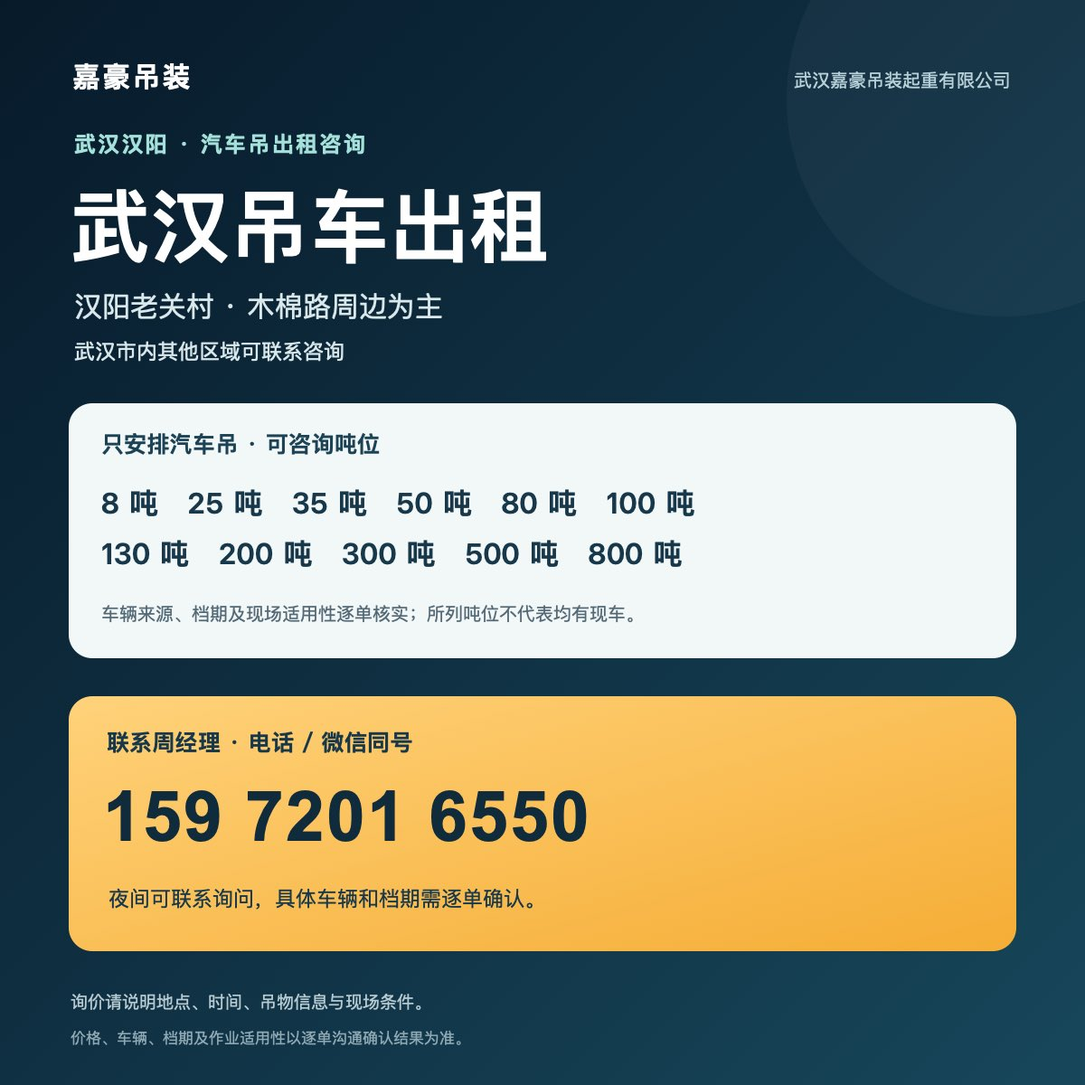
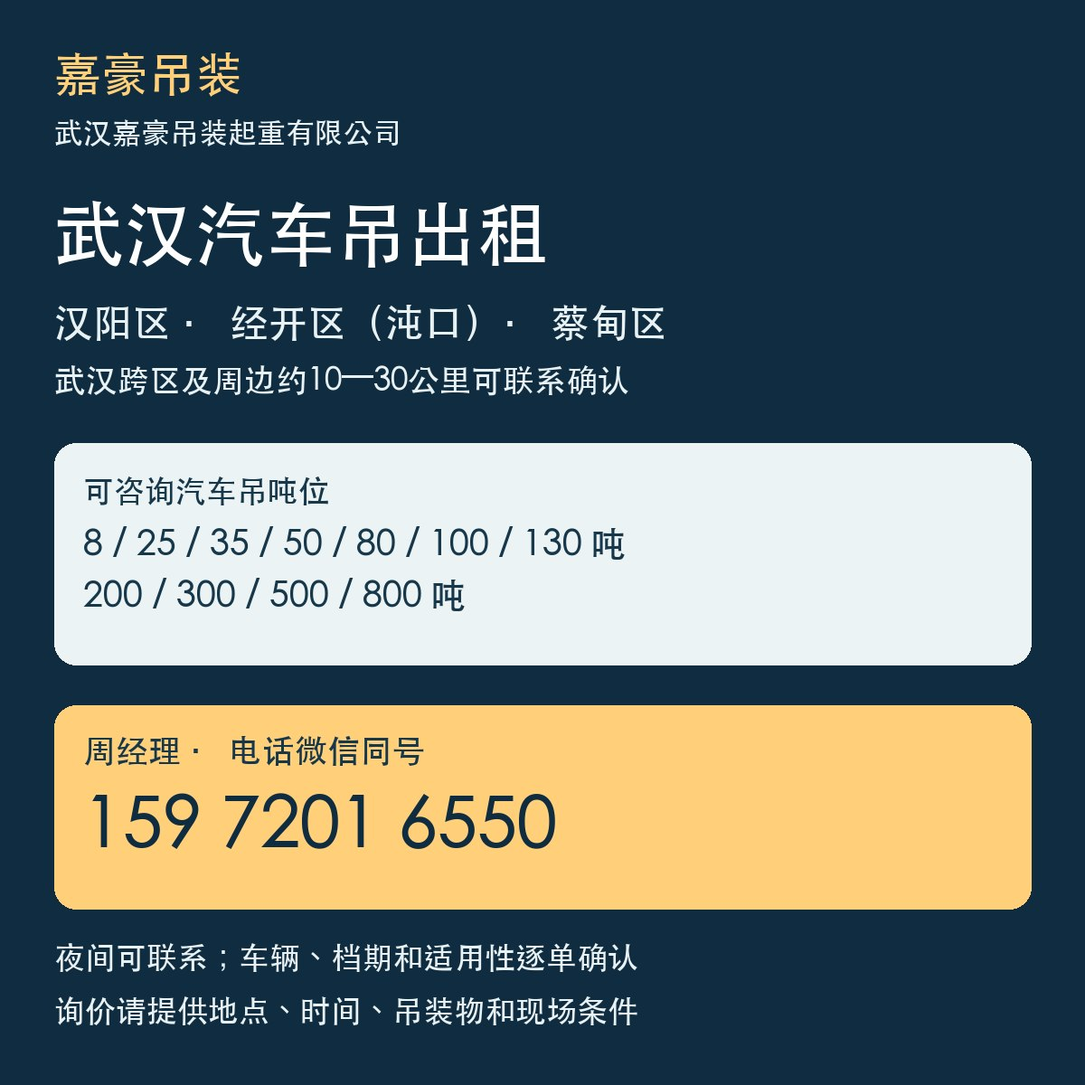
Use district-level Wuhan service areas across public marketing pages and cards

diff --git a/index.html b/index.html
@@ -6,18 +6,18 @@
   <meta charset="utf-8">
   <meta name="viewport" content="width=device-width,initial-scale=1">
   <title>武汉吊车出租｜汉阳吊车出租（汽车吊）｜武汉嘉豪吊装</title>
-  <meta name="description" content="武汉嘉豪吊装起重有限公司（嘉豪吊装）提供武汉汉阳汽车吊出租咨询，主要服务老关村、木棉路周边；武汉市内其他区域可沟通。车辆、档期及现场适用性逐单确认。周经理15972016550，电话微信同号。">
+  <meta name="description" content="武汉嘉豪吊装起重有限公司（嘉豪吊装）提供武汉汉阳汽车吊出租咨询，以汉阳区为重点，服务武汉经开区（沌口）、蔡甸区、硚口区、东西湖区、江岸区、江汉区、武昌区、洪山区和江夏区。武汉市内跨区需求，以及向周边延伸约10—30公里的项目，均可联系确认车辆与档期。车辆、档期及现场适用性逐单确认。周经理15972016550，电话微信同号。">
   <meta name="robots" content="index,follow">
   <link rel="canonical" href="https://a15972016550-ops.github.io/wuhan-jiahao-crane/">
   <style>
     :root{font-family:system-ui,-apple-system,"PingFang SC","Microsoft YaHei",sans-serif;color:#152430;background:#f7f9fa}*{box-sizing:border-box}body{margin:0;line-height:1.65}a{color:inherit}.wrap{max-width:1080px;margin:auto;padding:0 24px}header{background:#102b3c;color:#fff}nav{display:flex;align-items:center;justify-content:space-between;gap:20px;min-height:68px}.brand{font-size:20px;font-weight:800;text-decoration:none}.navphone{text-decoration:none;font-weight:700}.hero{background:linear-gradient(120deg,#102b3c,#17465a 70%,#286576);color:#fff;padding:76px 0 84px}.eyebrow{color:#a5e1db;font-weight:700;letter-spacing:.08em}.hero h1{font-size:clamp(36px,6vw,64px);line-height:1.18;margin:12px 0 22px;max-width:760px}.hero p{font-size:19px;max-width:730px;color:#e1f1f1}.actions{display:flex;flex-wrap:wrap;gap:14px;margin-top:30px}.btn{display:inline-block;border-radius:10px;padding:13px 22px;text-decoration:none;font-weight:800;background:#f9b83e;color:#162736}.btn.secondary{background:transparent;color:#fff;border:1px solid #afd6da}main section{padding:54px 0}h2{font-size:30px;line-height:1.3;margin:0 0 18px}.muted{color:#526674}.grid{display:grid;grid-template-columns:repeat(3,1fr);gap:18px}.card{background:#fff;border:1px solid #dfebed;border-radius:16px;padding:22px;box-shadow:0 6px 24px #0d2b3b0a}.card h3{margin:0 0 8px;font-size:20px}.tonnes{display:flex;flex-wrap:wrap;gap:10px}.tonnes span{background:#e7f2f3;border-radius:999px;padding:7px 14px;font-weight:700}.band{background:#e9f3f3}.quote{margin:0;padding-left:24px}.quote li{margin:9px 0}.contact{background:#102b3c;color:#fff}.contact p{color:#dbe9eb}.contact .phone{font-size:clamp(30px,5vw,48px);font-weight:800;text-decoration:none;color:#ffd079}.small{font-size:14px}footer{padding:26px 0;background:#0d2331;color:#cbdfe2}@media(max-width:700px){.grid{grid-template-columns:1fr}.hero{padding:54px 0 62px}.navphone{font-size:14px}.wrap{padding:0 18px}}
   </style>
-  <script type="application/ld+json">{"@context":"https://schema.org","@graph":[{"@type":"WebSite","@id":"https://a15972016550-ops.github.io/wuhan-jiahao-crane/#website","url":"https://a15972016550-ops.github.io/wuhan-jiahao-crane/","name":"嘉豪吊装","alternateName":"武汉吊车出租｜嘉豪吊装","inLanguage":"zh-CN"},{"@type":"LocalBusiness","@id":"https://a15972016550-ops.github.io/wuhan-jiahao-crane/#business","url":"https://a15972016550-ops.github.io/wuhan-jiahao-crane/","name":"武汉嘉豪吊装起重有限公司","alternateName":["嘉豪吊装","武汉嘉豪起重吊装有限公司"],"description":"武汉汉阳吊车出租咨询（仅安排汽车吊），主要服务武汉市汉阳区老关村、木棉路周边；武汉市内其他区域可沟通安排。车辆、档期、适用性和报价逐单确认。","telephone":"+86-15972016550","areaServed":[{"@type":"Place","name":"武汉市汉阳区老关村、木棉路周边"},{"@type":"City","name":"武汉市"}],"contactPoint":{"@type":"ContactPoint","telephone":"+86-15972016550","contactType":"业务咨询","availableLanguage":"Chinese"},"hasOfferCatalog":{"@type":"OfferCatalog","name":"武汉汉阳吊车出租咨询（汽车吊）","itemListElement":[{"@type":"Offer","itemOffered":{"@id":"https://a15972016550-ops.github.io/wuhan-jiahao-crane/#service"}}]}},{"@type":"Service","@id":"https://a15972016550-ops.github.io/wuhan-jiahao-crane/#service","name":"武汉汉阳吊车出租咨询（汽车吊）","serviceType":"汽车吊出租","provider":{"@id":"https://a15972016550-ops.github.io/wuhan-jiahao-crane/#business"},"areaServed":[{"@type":"Place","name":"武汉市汉阳区老关村、木棉路周边"},{"@type":"City","name":"武汉市"}],"description":"仅安排汽车吊。可咨询8吨、25吨、35吨、50吨、80吨、100吨、130吨、200吨、300吨、500吨及800吨需求；具体车型、车辆来源、档期、作业适用性和报价均按每单现场情况确认，所列吨位不代表均有现车。"}]}</script>
+  <script type="application/ld+json">{"@context":"https://schema.org","@graph":[{"@type":"WebSite","@id":"https://a15972016550-ops.github.io/wuhan-jiahao-crane/#website","url":"https://a15972016550-ops.github.io/wuhan-jiahao-crane/","name":"嘉豪吊装","alternateName":"武汉吊车出租｜嘉豪吊装","inLanguage":"zh-CN"},{"@type":"LocalBusiness","@id":"https://a15972016550-ops.github.io/wuhan-jiahao-crane/#business","url":"https://a15972016550-ops.github.io/wuhan-jiahao-crane/","name":"武汉嘉豪吊装起重有限公司","alternateName":["嘉豪吊装","武汉嘉豪起重吊装有限公司"],"description":"武汉汉阳吊车出租咨询（仅安排汽车吊），以汉阳区为重点，服务武汉经开区（沌口）、蔡甸区、硚口区、东西湖区、江岸区、江汉区、武昌区、洪山区和江夏区。武汉市内跨区需求，以及向周边延伸约10—30公里的项目，均可联系确认车辆与档期。车辆、档期、适用性和报价逐单确认。","telephone":"+86-15972016550","areaServed":[{"@type":"Place","name":"汉阳区"},{"@type":"Place","name":"武汉经济技术开发区（沌口）"},{"@type":"Place","name":"蔡甸区"},{"@type":"Place","name":"硚口区"},{"@type":"Place","name":"东西湖区"},{"@type":"Place","name":"江岸区"},{"@type":"Place","name":"江汉区"},{"@type":"Place","name":"武昌区"},{"@type":"Place","name":"洪山区"},{"@type":"Place","name":"江夏区"}],"contactPoint":{"@type":"ContactPoint","telephone":"+86-15972016550","contactType":"业务咨询","availableLanguage":"Chinese"},"hasOfferCatalog":{"@type":"OfferCatalog","name":"武汉汉阳吊车出租咨询（汽车吊）","itemListElement":[{"@type":"Offer","itemOffered":{"@id":"https://a15972016550-ops.github.io/wuhan-jiahao-crane/#service"}}]}},{"@type":"Service","@id":"https://a15972016550-ops.github.io/wuhan-jiahao-crane/#service","name":"武汉汉阳吊车出租咨询（汽车吊）","serviceType":"汽车吊出租","provider":{"@id":"https://a15972016550-ops.github.io/wuhan-jiahao-crane/#business"},"areaServed":[{"@type":"Place","name":"汉阳区"},{"@type":"Place","name":"武汉经济技术开发区（沌口）"},{"@type":"Place","name":"蔡甸区"},{"@type":"Place","name":"硚口区"},{"@type":"Place","name":"东西湖区"},{"@type":"Place","name":"江岸区"},{"@type":"Place","name":"江汉区"},{"@type":"Place","name":"武昌区"},{"@type":"Place","name":"洪山区"},{"@type":"Place","name":"江夏区"}],"description":"仅安排汽车吊。可咨询8吨、25吨、35吨、50吨、80吨、100吨、130吨、200吨、300吨、500吨及800吨需求；具体车型、车辆来源、档期、作业适用性和报价均按每单现场情况确认，所列吨位不代表均有现车。"}]}</script>
   <meta property="og:type" content="website">
   <meta property="og:site_name" content="武汉嘉豪吊装起重有限公司">
   <meta property="og:locale" content="zh_CN">
   <meta property="og:title" content="武汉吊车出租｜汉阳吊车出租（汽车吊）｜武汉嘉豪吊装">
-  <meta property="og:description" content="武汉嘉豪吊装起重有限公司（嘉豪吊装）提供武汉汉阳汽车吊出租咨询，主要服务老关村、木棉路周边；武汉市内其他区域可沟通。车辆、档期及现场适用性逐单确认。周经理15972016550，电话微信同号。">
+  <meta property="og:description" content="武汉嘉豪吊装起重有限公司（嘉豪吊装）提供武汉汉阳汽车吊出租咨询，以汉阳区为重点，服务武汉经开区（沌口）、蔡甸区、硚口区、东西湖区、江岸区、江汉区、武昌区、洪山区和江夏区。武汉市内跨区需求，以及向周边延伸约10—30公里的项目，均可联系确认车辆与档期。车辆、档期及现场适用性逐单确认。周经理15972016550，电话微信同号。">
   <meta property="og:url" content="https://a15972016550-ops.github.io/wuhan-jiahao-crane/">
   <meta property="og:image" content="https://a15972016550-ops.github.io/wuhan-jiahao-crane/assets/jiahao-og-preview.jpg">
   <meta property="og:image:secure_url" content="https://a15972016550-ops.github.io/wuhan-jiahao-crane/assets/jiahao-og-preview.jpg">
@@ -29,16 +29,16 @@
   <meta name="twitter:image" content="https://a15972016550-ops.github.io/wuhan-jiahao-crane/assets/jiahao-og-preview.jpg">
   <meta name="twitter:image:alt" content="武汉汉阳汽车吊出租咨询，周经理15972016550，电话微信同号">
   <meta name="twitter:title" content="武汉吊车出租｜汉阳吊车出租（汽车吊）｜武汉嘉豪吊装">
-  <meta name="twitter:description" content="武汉嘉豪吊装起重有限公司（嘉豪吊装）提供武汉汉阳汽车吊出租咨询，主要服务老关村、木棉路周边；武汉市内其他区域可沟通。车辆、档期及现场适用性逐单确认。周经理15972016550，电话微信同号。">
+  <meta name="twitter:description" content="武汉嘉豪吊装起重有限公司（嘉豪吊装）提供武汉汉阳汽车吊出租咨询，以汉阳区为重点，服务武汉经开区（沌口）、蔡甸区、硚口区、东西湖区、江岸区、江汉区、武昌区、洪山区和江夏区。武汉市内跨区需求，以及向周边延伸约10—30公里的项目，均可联系确认车辆与档期。车辆、档期及现场适用性逐单确认。周经理15972016550，电话微信同号。">
 </head>
 <body>
   <header><nav class="wrap"><a class="brand" href="#top">嘉豪吊装</a><a class="navphone" href="tel:15972016550" aria-label="拨打周经理电话15972016550">☎ 周经理 15972016550</a></nav></header>
-  <div class="hero" id="top"><div class="wrap"><div class="eyebrow">武汉 · 汉阳老关村 · 汽车吊出租</div><h1>武汉汉阳吊车出租（汽车吊），先把需求说清楚</h1><p>武汉嘉豪吊装起重有限公司提供武汉汉阳吊车出租咨询（仅安排汽车吊），主要服务老关村、木棉路周边；武汉市内其他区域可沟通。夜间可联系询问。</p><div class="actions"><a class="btn" href="tel:15972016550">立即拨打 15972016550</a><a class="btn secondary" href="#quote">询价需要提供什么</a></div></div></div>
+  <div class="hero" id="top"><div class="wrap"><div class="eyebrow">武汉 · 汉阳区及周边区域 · 汽车吊出租</div><h1>武汉汉阳吊车出租（汽车吊），先把需求说清楚</h1><p>武汉嘉豪吊装起重有限公司提供武汉汉阳吊车出租咨询（仅安排汽车吊），以汉阳区为重点，服务武汉经开区（沌口）、蔡甸区、硚口区、东西湖区、江岸区、江汉区、武昌区、洪山区和江夏区。武汉市内跨区需求，以及向周边延伸约10—30公里的项目，均可联系确认车辆与档期。夜间可联系询问。</p><div class="actions"><a class="btn" href="tel:15972016550">立即拨打 15972016550</a><a class="btn secondary" href="#quote">询价需要提供什么</a></div></div></div>
   <main>
     <section class="wrap" aria-labelledby="service-title"><h2 id="service-title">可咨询的汽车吊吨位</h2><p class="muted">只安排汽车吊；具体车辆、档期及现场适用性请与周经理逐单确认。</p><div class="tonnes"><span>8 吨</span><span>25 吨</span><span>35 吨</span><span>50 吨</span><span>80 吨</span><span>100 吨</span><span>130 吨</span><span>200 吨</span><span>300 吨</span><span>500 吨</span><span>800 吨</span></div></section>
-    <section class="band"><div class="wrap"><h2>服务与联系</h2><div class="grid"><div class="card"><h3>服务区域</h3><p>主要接汉阳老关村、木棉路周边及汉阳区需求；武汉市内其他区域可咨询安排。</p></div><div class="card"><h3>夜间咨询</h3><p>夜间可联系沟通需求。是否能派车，以实际车辆和人员安排为准。</p></div><div class="card"><h3>电话微信同号</h3><p>联系周经理：<a href="tel:15972016550">15972016550</a>。发现场照片可先电话沟通，再添加微信。</p></div></div></div></section>
+    <section class="band"><div class="wrap"><h2>服务与联系</h2><div class="grid"><div class="card"><h3>服务区域</h3><p>以汉阳区为重点，服务武汉经开区（沌口）、蔡甸区、硚口区、东西湖区、江岸区、江汉区、武昌区、洪山区和江夏区。武汉市内跨区需求，以及向周边延伸约10—30公里的项目，均可联系确认车辆与档期。</p></div><div class="card"><h3>夜间咨询</h3><p>夜间可联系沟通需求。是否能派车，以实际车辆和人员安排为准。</p></div><div class="card"><h3>电话微信同号</h3><p>联系周经理：<a href="tel:15972016550">15972016550</a>。发现场照片可先电话沟通，再添加微信。</p></div></div></div></section>
     <section class="wrap" id="quote"><h2>外地客户询价，准备这 4 项</h2><ol class="quote"><li><strong>地点与时间：</strong>施工地址、进场日期、预计作业时段。</li><li><strong>吊装物：</strong>名称、重量、尺寸、吊点等已知信息。</li><li><strong>现场条件：</strong>进场道路、场地空间、作业高度与现场照片。</li><li><strong>报价需求：</strong>预计作业时长，以及是否有等待、夜间等安排。</li></ol><p class="muted small">吨位和报价需要结合实际工况确认；请勿仅凭吊装物重量选择车辆。</p><p><a href="fuwu-area.html">武汉服务区域与派车咨询 →</a>　<a href="./guide.html">查看外地客户询价指南</a>　<a href="dunwei.html">汽车吊吨位咨询指南 →</a>　<a href="./xunjia.html">汉阳汽车吊询价要点 →</a>　<a href="./faq.html">汽车吊出租常见问题 →</a></p></section>
-    <section class="contact"><div class="wrap"><h2>联系嘉豪吊装</h2><p><a href="./company.html" style="color:#ffd079">武汉嘉豪吊装起重有限公司 · 公司介绍与联系方式 →</a></p><p>主要服务汉阳区老关村、木棉路周边；具体作业地址请先电话沟通。</p><a class="phone" href="tel:15972016550">15972016550</a><p>周经理｜电话微信同号</p><div class="actions"><a class="btn" href="tel:15972016550">一键拨号</a><a class="btn secondary" href="./assets/jiahao-service-card.svg">查看/转发服务信息卡</a><a class="btn secondary" href="./contact.vcf" download>保存周经理联系人</a></div></div></section>
+    <section class="contact"><div class="wrap"><h2>联系嘉豪吊装</h2><p><a href="./company.html" style="color:#ffd079">武汉嘉豪吊装起重有限公司 · 公司介绍与联系方式 →</a></p><p>以汉阳区为重点，服务武汉经开区（沌口）、蔡甸区、硚口区、东西湖区、江岸区、江汉区、武昌区、洪山区和江夏区。武汉市内跨区需求，以及向周边延伸约10—30公里的项目，均可联系确认车辆与档期。</p><a class="phone" href="tel:15972016550">15972016550</a><p>周经理｜电话微信同号</p><div class="actions"><a class="btn" href="tel:15972016550">一键拨号</a><a class="btn secondary" href="./assets/jiahao-service-card.svg">查看/转发服务信息卡</a><a class="btn secondary" href="./contact.vcf" download>保存周经理联系人</a></div></div></section>
   </main>
   <section aria-label="拨号备用方式"><div class="wrap"><p class="small" style="font-size:14px;color:#526674">如果点击号码没有弹出拨号，请长按复制号码后在手机拨号盘拨打；电话与微信同号，也可通过微信联系周经理并发送现场信息。</p></div></section>
   <footer><div class="wrap">© 嘉豪吊装 · 武汉吊车出租服务咨询</div></footer>

diff --git a/fuwu-area.html b/fuwu-area.html
@@ -3,29 +3,29 @@
 <head>
   <meta charset="utf-8">
   <meta name="viewport" content="width=device-width,initial-scale=1">
-  <title>武汉汉阳汽车吊出租服务范围｜老关村、木棉路周边｜嘉豪吊装</title>
-  <meta name="description" content="武汉嘉豪吊装起重有限公司主要承接汉阳区老关村、木棉路周边汽车吊出租咨询，武汉市内其他区域可沟通。仅安排汽车吊，车辆和档期逐单确认。周经理15972016550，电话微信同号。">
+  <title>武汉汉阳汽车吊出租服务范围｜汉阳区、经开区（沌口）、蔡甸区｜嘉豪吊装</title>
+  <meta name="description" content="武汉嘉豪吊装起重有限公司提供汉阳区、武汉经开区（沌口）、蔡甸区等武汉区域汽车吊出租咨询，周边约10—30公里的项目可联系确认。仅安排汽车吊，车辆和档期逐单确认。周经理15972016550，电话微信同号。">
   <meta name="robots" content="index,follow">
   <link rel="canonical" href="https://a15972016550-ops.github.io/wuhan-jiahao-crane/fuwu-area.html">
   <style>
     :root{font-family:system-ui,-apple-system,"PingFang SC","Microsoft YaHei",sans-serif;color:#152430;background:#f7f9fa}*{box-sizing:border-box}body{margin:0;line-height:1.7}a{color:#145d70}.wrap{max-width:920px;margin:auto;padding:0 24px}header{background:#102b3c;color:#fff}nav{display:flex;align-items:center;justify-content:space-between;gap:18px;min-height:68px}nav a{color:#fff;text-decoration:none;font-weight:800}.hero{background:linear-gradient(120deg,#102b3c,#286576);color:#fff;padding:54px 0 64px}.hero h1{font-size:clamp(32px,5vw,52px);line-height:1.22;margin:12px 0}.hero p{font-size:18px;color:#e1f1f1;max-width:740px}.btn{display:inline-block;border-radius:10px;padding:12px 20px;text-decoration:none;font-weight:800;background:#f9b83e;color:#162736}.main{padding:34px 0 64px}.card{background:#fff;border:1px solid #dfebed;border-radius:16px;padding:24px;margin:18px 0}.card h2{font-size:25px;margin:0 0 10px}.card ul{margin:0;padding-left:22px}.card li{margin:7px 0}.note{background:#e9f3f3;padding:20px;border-radius:12px}.contact{background:#102b3c;color:#fff;padding:44px 0}.contact a{color:#ffd079}.phone{font-size:clamp(30px,5vw,45px);font-weight:800;text-decoration:none}footer{padding:24px 0;background:#0d2331;color:#cbdfe2}@media(max-width:700px){.wrap{padding:0 18px}nav{align-items:flex-start;flex-direction:column;padding-top:14px;padding-bottom:14px}}
   </style>
-  <script type="application/ld+json">{"@context":"https://schema.org","@type":"Service","name":"武汉汉阳汽车吊出租咨询","serviceType":"汽车吊出租","provider":{"@type":"LocalBusiness","name":"武汉嘉豪吊装起重有限公司","telephone":"+86-15972016550","url":"https://a15972016550-ops.github.io/wuhan-jiahao-crane/"},"areaServed":[{"@type":"Place","name":"武汉市汉阳区老关村、木棉路周边"},{"@type":"City","name":"武汉市"}],"description":"仅安排汽车吊。主要服务汉阳区老关村、木棉路周边；武汉市内其他区域可沟通。具体车辆、来源、档期、现场适用性和报价按单确认。"}</script>
+  <script type="application/ld+json">{"@context":"https://schema.org","@type":"Service","name":"武汉汉阳汽车吊出租咨询","serviceType":"汽车吊出租","provider":{"@type":"LocalBusiness","name":"武汉嘉豪吊装起重有限公司","telephone":"+86-15972016550","url":"https://a15972016550-ops.github.io/wuhan-jiahao-crane/"},"areaServed":[{"@type":"Place","name":"汉阳区"},{"@type":"Place","name":"武汉经济技术开发区（沌口）"},{"@type":"Place","name":"蔡甸区"},{"@type":"Place","name":"硚口区"},{"@type":"Place","name":"东西湖区"},{"@type":"Place","name":"江岸区"},{"@type":"Place","name":"江汉区"},{"@type":"Place","name":"武昌区"},{"@type":"Place","name":"洪山区"},{"@type":"Place","name":"江夏区"}],"description":"仅安排汽车吊。以汉阳区为重点，服务武汉经开区（沌口）、蔡甸区、硚口区、东西湖区、江岸区、江汉区、武昌区、洪山区和江夏区。武汉市内跨区需求，以及向周边延伸约10—30公里的项目，均可联系确认车辆与档期。具体车辆、来源、档期、现场适用性和报价按单确认。"}</script>
   <meta property="og:type" content="article">
   <meta property="og:site_name" content="武汉嘉豪吊装起重有限公司">
   <meta property="og:locale" content="zh_CN">
-  <meta property="og:title" content="武汉汉阳汽车吊出租服务范围｜老关村、木棉路周边｜嘉豪吊装">
-  <meta property="og:description" content="武汉嘉豪吊装起重有限公司主要承接汉阳区老关村、木棉路周边汽车吊出租咨询，武汉市内其他区域可沟通。仅安排汽车吊，车辆和档期逐单确认。周经理15972016550，电话微信同号。">
+  <meta property="og:title" content="武汉汉阳汽车吊出租服务范围｜汉阳区、经开区（沌口）、蔡甸区｜嘉豪吊装">
+  <meta property="og:description" content="武汉嘉豪吊装起重有限公司提供汉阳区、武汉经开区（沌口）、蔡甸区等武汉区域汽车吊出租咨询，周边约10—30公里的项目可联系确认。仅安排汽车吊，车辆和档期逐单确认。周经理15972016550，电话微信同号。">
   <meta property="og:url" content="https://a15972016550-ops.github.io/wuhan-jiahao-crane/fuwu-area.html">
   <meta name="twitter:card" content="summary">
-  <meta name="twitter:title" content="武汉汉阳汽车吊出租服务范围｜老关村、木棉路周边｜嘉豪吊装">
-  <meta name="twitter:description" content="武汉嘉豪吊装起重有限公司主要承接汉阳区老关村、木棉路周边汽车吊出租咨询，武汉市内其他区域可沟通。仅安排汽车吊，车辆和档期逐单确认。周经理15972016550，电话微信同号。">
+  <meta name="twitter:title" content="武汉汉阳汽车吊出租服务范围｜汉阳区、经开区（沌口）、蔡甸区｜嘉豪吊装">
+  <meta name="twitter:description" content="武汉嘉豪吊装起重有限公司提供汉阳区、武汉经开区（沌口）、蔡甸区等武汉区域汽车吊出租咨询，周边约10—30公里的项目可联系确认。仅安排汽车吊，车辆和档期逐单确认。周经理15972016550，电话微信同号。">
 </head>
 <body>
   <header><nav class="wrap"><a href="./">嘉豪吊装 · 武汉汽车吊出租</a><a href="tel:15972016550">☎ 周经理 15972016550</a></nav></header>
-  <div class="hero"><div class="wrap"><p>武汉市内汽车吊出租咨询 · 汉阳老关村、木棉路周边</p><h1>先确认作业地点，再安排武汉汽车吊</h1><p>武汉嘉豪吊装起重有限公司主要接汉阳区和木棉路周边需求；武汉市内其他区域也可联系沟通。能否安排车辆，要结合距离、进场条件、作业时间和实际车辆档期逐单确认。</p><a class="btn" href="tel:15972016550">拨打周经理 15972016550</a></div></div>
+  <div class="hero"><div class="wrap"><p>武汉市内汽车吊出租咨询 · 汉阳区、武汉经开区（沌口）、蔡甸区</p><h1>先确认作业地点，再安排武汉汽车吊</h1><p>武汉嘉豪吊装起重有限公司以汉阳区为重点，服务武汉经开区（沌口）、蔡甸区、硚口区、东西湖区、江岸区、江汉区、武昌区、洪山区和江夏区。武汉市内跨区需求，以及向周边延伸约10—30公里的项目，均可联系确认车辆与档期。能否安排车辆，要结合距离、进场条件、作业时间和实际车辆档期逐单确认。</p><a class="btn" href="tel:15972016550">拨打周经理 15972016550</a></div></div>
   <main class="main wrap">
-    <div class="card"><h2>主要服务区域</h2><ul><li><strong>汉阳区：</strong>老关村周边及木棉路附近是主要接活区域。</li><li><strong>武汉市内：</strong>其他区域可先提供具体地址，沟通距离、工期和派车安排。</li><li><strong>外地来汉项目：</strong>项目负责人可远程先询问；建议由武汉现场联系人补充定位和场地照片。</li></ul><p>请先提供具体作业地址、用车时间和现场条件，沟通车辆与档期安排。</p></div>
+    <div class="card"><h2>主要服务区域</h2><ul><li><strong>重点服务：</strong>汉阳区、武汉经开区（沌口）、蔡甸区。</li><li><strong>武汉其他区域：</strong>硚口区、东西湖区、江岸区、江汉区、武昌区、洪山区、江夏区。</li><li><strong>周边延伸：</strong>向周边延伸约10—30公里的项目也可联系，按实际地点、距离和档期确认。</li><li><strong>外地来汉项目：</strong>项目负责人可远程先询问；建议由武汉现场联系人补充定位和场地照片。</li></ul><p>请先提供具体作业地址、用车时间和现场条件，沟通车辆与档期安排。</p></div>
     <div class="card"><h2>目前安排的车型</h2><p>只安排汽车吊。可咨询的吨位：8、25、35、50、80、100、130、200、300、500、800 吨。吨位清单表示可询问的需求规格，不表示每一吨位都有现车；具体车辆、来源、档期与作业适用性需要逐单核实。</p></div>
     <div class="card"><h2>电话询价时请提供</h2><ul><li>项目在武汉的具体地址、进场日期和作业时段。</li><li>吊装物名称、已知重量、尺寸及吊点信息；不确定的项目请注明。</li><li>进场道路、停车支车位置、作业高度和吊装距离等现场情况。</li><li>现场照片、联系人和预计作业时长；夜间作业请提前说明。</li></ul><p>这些信息用于初步沟通，不能替代现场核验或专业吊装方案。报价和能否派车以实际沟通确认为准。</p></div>
     <p class="note">周经理：<a href="tel:15972016550">15972016550</a>（电话、微信同号）。夜间可以联系咨询，是否能派车仍按实际车辆和人员安排确认。<br><a href="./guide.html">外地客户询价指南</a>　<a href="./dunwei.html">汽车吊吨位咨询指南</a>　<a href="./xunjia.html">汉阳汽车吊询价要点</a></p>

diff --git a/company.html b/company.html
@@ -4,21 +4,21 @@
 <meta charset="utf-8">
 <meta name="viewport" content="width=device-width,initial-scale=1">
 <title>武汉嘉豪吊装起重有限公司｜公司介绍与联系周经理</title>
-<meta name="description" content="武汉嘉豪吊装起重有限公司（嘉豪吊装）提供武汉汉阳汽车吊出租咨询。主要服务老关村、木棉路周边，武汉市内其他区域可沟通。联系周经理15972016550，电话微信同号，夜间可联系。">
+<meta name="description" content="武汉嘉豪吊装起重有限公司（嘉豪吊装）提供武汉汉阳汽车吊出租咨询。以汉阳区为重点，服务武汉经开区（沌口）、蔡甸区、硚口区、东西湖区、江岸区、江汉区、武昌区、洪山区和江夏区。武汉市内跨区需求，以及向周边延伸约10—30公里的项目，均可联系确认车辆与档期。联系周经理15972016550，电话微信同号，夜间可联系。">
 <meta name="robots" content="index,follow">
 <link rel="canonical" href="https://a15972016550-ops.github.io/wuhan-jiahao-crane/company.html">
 <meta property="og:type" content="website">
 <meta property="og:locale" content="zh_CN">
 <meta property="og:site_name" content="武汉嘉豪吊装起重有限公司">
 <meta property="og:title" content="武汉嘉豪吊装起重有限公司｜公司介绍与联系周经理">
-<meta property="og:description" content="武汉嘉豪吊装起重有限公司（嘉豪吊装）提供武汉汉阳汽车吊出租咨询。主要服务老关村、木棉路周边，武汉市内其他区域可沟通。联系周经理15972016550，电话微信同号，夜间可联系。">
+<meta property="og:description" content="武汉嘉豪吊装起重有限公司（嘉豪吊装）提供武汉汉阳汽车吊出租咨询。以汉阳区为重点，服务武汉经开区（沌口）、蔡甸区、硚口区、东西湖区、江岸区、江汉区、武昌区、洪山区和江夏区。武汉市内跨区需求，以及向周边延伸约10—30公里的项目，均可联系确认车辆与档期。联系周经理15972016550，电话微信同号，夜间可联系。">
 <meta property="og:url" content="https://a15972016550-ops.github.io/wuhan-jiahao-crane/company.html">
 <meta property="og:image" content="https://a15972016550-ops.github.io/wuhan-jiahao-crane/assets/jiahao-og-preview.jpg">
 <meta property="og:image:alt" content="嘉豪吊装汽车吊出租咨询，周经理15972016550，电话微信同号">
 <style>
 :root{font-family:system-ui,-apple-system,"PingFang SC","Microsoft YaHei",sans-serif;color:#152430;background:#f7f9fa}*{box-sizing:border-box}body{margin:0;line-height:1.75}a{color:#145d70}.wrap{max-width:920px;margin:auto;padding:0 22px}header{background:#102b3c;color:#fff}nav{display:flex;justify-content:space-between;gap:16px;align-items:center;padding:18px 0}nav a{color:#fff;text-decoration:none;font-weight:700}.hero{background:#17465a;color:#fff;padding:42px 0}.hero p{color:#e1f1f1}.hero h1{font-size:clamp(28px,5vw,44px);line-height:1.35;overflow-wrap:anywhere}.hero .phone{color:#ffd079;font-size:clamp(28px,6vw,40px);font-weight:800;text-decoration:none}.actions{display:flex;flex-wrap:wrap;gap:12px;margin:20px 0}.btn{display:inline-block;padding:12px 19px;border-radius:9px;background:#f9b83e;color:#162736;font-weight:800;text-decoration:none}.btn.secondary{background:white;border:1px solid #c6dce0;color:#145d70}main{padding:22px 0 42px}.card{padding:24px;background:#fff;border:1px solid #dfebed;border-radius:14px;margin:18px 0}h2{font-size:23px;margin:0 0 14px}dl{margin:0}dt{font-weight:800;color:#526674;margin-top:14px}dd{margin:2px 0 0;overflow-wrap:anywhere}li{margin:8px 0}.note{font-size:14px;color:#526674}footer{background:#102b3c;color:#dbe9eb;padding:24px 0}footer a{color:#fff}@media(min-width:640px){dl{display:grid;grid-template-columns:130px 1fr;gap:12px}dt{margin:0}dd{margin:0}}@media(max-width:480px){nav{align-items:flex-start;flex-direction:column}.wrap{padding:0 17px}.card{padding:19px}}
 </style>
-<script type="application/ld+json">{"@context":"https://schema.org","@graph":[{"@type":"ContactPage","@id":"https://a15972016550-ops.github.io/wuhan-jiahao-crane/company.html#page","url":"https://a15972016550-ops.github.io/wuhan-jiahao-crane/company.html","name":"武汉嘉豪吊装起重有限公司｜公司介绍与联系周经理","inLanguage":"zh-CN","mainEntity":{"@id":"https://a15972016550-ops.github.io/wuhan-jiahao-crane/#business"}},{"@type":"LocalBusiness","@id":"https://a15972016550-ops.github.io/wuhan-jiahao-crane/#business","name":"武汉嘉豪吊装起重有限公司","alternateName":"嘉豪吊装","url":"https://a15972016550-ops.github.io/wuhan-jiahao-crane/","telephone":"+86-15972016550","areaServed":[{"@type":"Place","name":"武汉市汉阳区老关村、木棉路周边"},{"@type":"City","name":"武汉市"}],"description":"只安排汽车吊，车辆来源、档期、现场适用性和报价逐单确认。"}]}</script>
+<script type="application/ld+json">{"@context":"https://schema.org","@graph":[{"@type":"ContactPage","@id":"https://a15972016550-ops.github.io/wuhan-jiahao-crane/company.html#page","url":"https://a15972016550-ops.github.io/wuhan-jiahao-crane/company.html","name":"武汉嘉豪吊装起重有限公司｜公司介绍与联系周经理","inLanguage":"zh-CN","mainEntity":{"@id":"https://a15972016550-ops.github.io/wuhan-jiahao-crane/#business"}},{"@type":"LocalBusiness","@id":"https://a15972016550-ops.github.io/wuhan-jiahao-crane/#business","name":"武汉嘉豪吊装起重有限公司","alternateName":"嘉豪吊装","url":"https://a15972016550-ops.github.io/wuhan-jiahao-crane/","telephone":"+86-15972016550","areaServed":[{"@type":"Place","name":"汉阳区"},{"@type":"Place","name":"武汉经济技术开发区（沌口）"},{"@type":"Place","name":"蔡甸区"},{"@type":"Place","name":"硚口区"},{"@type":"Place","name":"东西湖区"},{"@type":"Place","name":"江岸区"},{"@type":"Place","name":"江汉区"},{"@type":"Place","name":"武昌区"},{"@type":"Place","name":"洪山区"},{"@type":"Place","name":"江夏区"}],"description":"只安排汽车吊，车辆来源、档期、现场适用性和报价逐单确认。"}]}</script>
 </head>
 <body>
 <header><nav class="wrap"><a href="./">嘉豪吊装 · 武汉汽车吊出租</a><a href="tel:15972016550">联系周经理</a></nav></header>
@@ -30,7 +30,7 @@
 <dt>业务联系人</dt><dd>周经理</dd>
 <dt>电话与微信</dt><dd><a href="tel:15972016550">15972016550</a>（同号）</dd>
 <dt>服务类型</dt><dd>只安排汽车吊。</dd>
-<dt>主要服务区域</dt><dd>武汉市汉阳区老关村、木棉路周边及汉阳区；武汉市内其他区域可联系沟通。</dd>
+<dt>主要服务区域</dt><dd>以汉阳区为重点，服务武汉经开区（沌口）、蔡甸区、硚口区、东西湖区、江岸区、江汉区、武昌区、洪山区和江夏区。武汉市内跨区需求，以及向周边延伸约10—30公里的项目，均可联系确认车辆与档期。</dd>
 <dt>夜间联系</dt><dd>夜间可联系询问；能否安排车辆和人员，以当时实际情况为准。</dd>
 </dl></section>
 <section class="card"><h2>可以咨询哪些吨位？</h2><p>可咨询8吨、25吨、35吨、50吨、80吨、100吨、130吨、200吨、300吨、500吨及800吨汽车吊需求。车辆来源、档期、现场适用性和报价逐单确认。</p><p>上述吨位为可咨询范围，不代表所有车辆归公司所有，也不代表每个时段都有现车。请结合起吊高度、作业半径、吊装物及进场条件沟通车型。</p><p><a href="./dunwei.html">查看汽车吊吨位咨询说明 →</a></p></section>

diff --git a/faq.html b/faq.html
@@ -11,7 +11,7 @@
   {"@context":"https://schema.org","@type":"FAQPage","mainEntity":[
     {"@type":"Question","name":"武汉嘉豪吊装起重有限公司安排什么类型的吊车？","acceptedAnswer":{"@type":"Answer","text":"公司只安排汽车吊。具体车辆、档期和现场适用性需按每次作业需求确认。"}},
     {"@type":"Question","name":"可以咨询哪些吨位的汽车吊？","acceptedAnswer":{"@type":"Answer","text":"可咨询8、25、35、50、80、100、130、200、300、500、800吨汽车吊。吨位清单不表示每台车辆均为自有或随时可用，具体安排需逐单确认。"}},
-    {"@type":"Question","name":"武汉哪些区域可以联系嘉豪吊装？","acceptedAnswer":{"@type":"Answer","text":"主要服务武汉市汉阳区老关村、木棉路周边及汉阳区，武汉市内其他区域也可以联系沟通车辆安排。"}},
+    {"@type":"Question","name":"武汉哪些区域可以联系嘉豪吊装？","acceptedAnswer":{"@type":"Answer","text":"以汉阳区为重点，服务武汉经开区（沌口）、蔡甸区、硚口区、东西湖区、江岸区、江汉区、武昌区、洪山区和江夏区。武汉市内跨区需求，以及向周边延伸约10—30公里的项目，均可联系确认车辆与档期。"}},
     {"@type":"Question","name":"夜间可以联系吗？","acceptedAnswer":{"@type":"Answer","text":"夜间可以联系咨询；是否能派出车辆和人员，以实际车辆及档期安排为准。"}},
     {"@type":"Question","name":"外地项目询价要提供什么信息？","acceptedAnswer":{"@type":"Answer","text":"请说明作业地址和时间、吊物名称及已知重量和尺寸、起吊高度和距离、进场道路及现场空间，并尽量提供现场照片。车辆安排和报价需结合现场条件沟通确认。"}},
     {"@type":"Question","name":"武汉吊车出租多少钱？","acceptedAnswer":{"@type":"Answer","text":"页面没有公开统一价目表。请提供施工地址和时间、预计作业时长、吊物名称及已知重量尺寸、现场道路和站车空间等信息，周经理结合实际车辆、档期和作业条件逐单沟通报价。所列吨位不代表当前都有现车。"}},{"@type":"Question","name":"武汉25吨、50吨汽车吊怎么按台班询价？","acceptedAnswer":{"@type":"Answer","text":"可先说明希望按台班或其他时长计价，并提供作业地址、日期、预计作业时间、吊装物和现场条件。车辆来源、档期、是否适用及报价口径均需逐单确认；页面没有统一台班价，吨位清单不代表当前有现车。"}},
@@ -37,7 +37,7 @@
   <main class="main wrap">
     <section class="card"><h2>嘉豪吊装安排什么类型的吊车？</h2><p>只安排汽车吊。具体车辆、档期和现场适用性，需要结合当次作业需求确认。</p></section>
     <section class="card"><h2>可以咨询哪些吨位？</h2><p>可咨询8、25、35、50、80、100、130、200、300、500、800吨汽车吊。吨位清单不表示每台车辆均为自有或随时可用，具体安排需逐单确认。</p></section>
-    <section class="card"><h2>主要服务哪些区域？</h2><p>主要服务武汉市汉阳区老关村、木棉路周边及汉阳区；武汉市内其他区域也可联系沟通车辆安排。</p></section>
+    <section class="card"><h2>主要服务哪些区域？</h2><p>以汉阳区为重点，服务武汉经开区（沌口）、蔡甸区、硚口区、东西湖区、江岸区、江汉区、武昌区、洪山区和江夏区。武汉市内跨区需求，以及向周边延伸约10—30公里的项目，均可联系确认车辆与档期。</p></section>
     <section class="card"><h2>夜间可以联系吗？</h2><p>夜间可以联系咨询；是否能安排车辆和人员，以实际车辆及档期为准。</p></section>
     <section class="card"><h2>武汉吊车出租多少钱？</h2><p>本页没有公开统一价目表。请准备施工地址和时间、预计作业时长、吊物名称及已知重量和尺寸、进场道路与站车空间等信息。周经理会结合实际车辆、档期和作业条件逐单沟通报价；所列吨位不代表当前都有现车。</p><p>联系周经理电话、微信同号：<a href="tel:15972016550">15972016550</a>。</p></section>
     <section class="card"><h2>武汉25吨、50吨汽车吊怎么按台班询价？</h2><p>可以先说明希望按台班或其他时长计价，并提供作业地址、用车日期、预计作业时间、吊装物和现场条件。车辆来源、档期、是否适用及报价口径均需逐单确认；本站没有统一台班价，吨位清单不代表当前有现车。</p><p>联系周经理：<a href="tel:15972016550">15972016550</a>（电话、微信同号）。</p></section>

diff --git a/dunwei.html b/dunwei.html
@@ -31,7 +31,7 @@
       <section class="card"><h2>可咨询的汽车吊吨位</h2><p>武汉嘉豪吊装起重有限公司（对外招牌：武汉吊车出租｜嘉豪吊装）只安排汽车吊，可咨询以下吨位需求：</p><div class="chips"><span>8 吨</span><span>25 吨</span><span>35 吨</span><span>50 吨</span><span>80 吨</span><span>100 吨</span><span>130 吨</span><span>200 吨</span><span>300 吨</span><span>500 吨</span><span>800 吨</span></div><p>以上是可咨询吨位，不代表每个吨位、每个时段都有现车。车辆来源、档期、车型和报价需要逐单沟通确认。</p></section>
       <section class="card"><h2>为什么不能只报一个吨位？</h2><p>仅知道吊装物重量，通常不足以判断车辆是否适用。还要核对吊装位置、作业半径、起升高度、进场通道、支车场地和周边障碍等现场条件。具体设备和作业安排应依据实际工况，由相关人员核实确认。</p><p>不要根据网页上的吨位列表自行确定吊车或作业方案；不确定的信息可以先说明“待核实”，再补充现场照片或资料。</p></section>
       <section class="card"><h2>询价时可以准备这 6 项</h2><ul><li>武汉市内的具体作业地址或地图定位。</li><li>计划用车日期、进场时间和预计作业时长；夜间需求请提前说明。</li><li>吊装物名称、已知重量、长宽高及包装情况。</li><li>计划起吊点、落位点，以及已知的作业距离和高度。</li><li>进场道路、场地入口、支车位置和周边障碍的现场照片。</li><li>现场负责人的联系电话及报价希望包含的服务范围。</li></ul></section>
-      <section class="card"><h2>嘉豪吊装服务范围</h2><p>主要服务武汉市汉阳区老关村、木棉路周边；武汉市内其他区域可以联系沟通。夜间可以联系咨询，能否安排以当时车辆和人员情况为准。</p><p>具体车型、档期和作业适用性需结合项目地址与现场条件逐单确认。</p></section>
+      <section class="card"><h2>嘉豪吊装服务范围</h2><p>以汉阳区为重点，服务武汉经开区（沌口）、蔡甸区、硚口区、东西湖区、江岸区、江汉区、武昌区、洪山区和江夏区。武汉市内跨区需求，以及向周边延伸约10—30公里的项目，均可联系确认车辆与档期。夜间可以联系咨询，能否安排以当时车辆和人员情况为准。</p><p>具体车型、档期和作业适用性需结合项目地址与现场条件逐单确认。</p></section>
       <p class="note"><strong>联系周经理：</strong>电话与微信同号 <a href="tel:15972016550">15972016550</a>。先说明地点、时间和已知现场情况；外地客户可电话沟通后再用微信发送照片。</p>
       <p><a href="./xunjia.html">查看汽车吊询价清单 →</a>　<a href="./guide.html">查看外地客户询价指南 →</a>　<a href="./faq.html">查看常见问题 →</a>　<a href="./">返回首页</a></p>
     </article>

diff --git a/xunjia.html b/xunjia.html
@@ -32,7 +32,7 @@
       <div class="card"><h2>二、吊装物的已知资料</h2><p>说明物件名称、已知重量、长宽高和包装情况；如果有图纸或吊点资料，也可一并准备。数据不确定时请标明“估算”或“待确认”，不要只按重量直接选车。</p></div>
       <div class="card"><h2>三、作业位置和现场照片</h2><p>提供进场道路、场地入口、计划停车和支车位置的照片，并说明作业高度、吊装距离及附近障碍物等已知情况。车辆能否进入、具体车型和作业方案需要结合现场条件再确认。</p></div>
       <div class="card"><h2>四、报价范围和配合安排</h2><p>说明预计作业时长、是否需要夜间施工，以及进出场、等待或超时等项目希望如何计费。请在安排前核对报价包含的内容和双方约定。</p></div>
-      <div class="card"><h2>嘉豪吊装可咨询什么服务？</h2><p>武汉嘉豪吊装起重有限公司（对外招牌：武汉吊车出租｜嘉豪吊装）只安排汽车吊，可咨询8、25、35、50、80、100、130、200、300、500、800吨。上述吨位为咨询范围，不代表每个时段均有现车；车辆来源、档期和现场适用性逐单确认。</p><p>主要接汉阳区老关村、木棉路周边需求，武汉市内其他区域可联系沟通。具体车辆、档期、现场适用性和报价需结合每单现场条件确认。</p></div>
+      <div class="card"><h2>嘉豪吊装可咨询什么服务？</h2><p>武汉嘉豪吊装起重有限公司（对外招牌：武汉吊车出租｜嘉豪吊装）只安排汽车吊，可咨询8、25、35、50、80、100、130、200、300、500、800吨。上述吨位为咨询范围，不代表每个时段均有现车；车辆来源、档期和现场适用性逐单确认。</p><p>以汉阳区为重点，服务武汉经开区（沌口）、蔡甸区、硚口区、东西湖区、江岸区、江汉区、武昌区、洪山区和江夏区。武汉市内跨区需求，以及向周边延伸约10—30公里的项目，均可联系确认车辆与档期。具体车辆、档期、现场适用性和报价需结合每单现场条件确认。</p></div>
       <div class="card"><h2>常见问题：只报吨位可以报价吗？</h2><p>通常还需要了解作业地点、吊装物资料、现场条件和用车时间。仅凭吨位无法确认车辆是否适用，详细安排以实际沟通为准。</p><h2>常见问题：人在外地怎么询价？</h2><p>先电话说明地址和时间，再通过同号微信发送现场照片或已有资料。周经理：15972016550。</p></div>
     </article>
     <p><a href="./guide.html">查看外地客户询价指南 →</a>　<a href="./faq.html">查看常见问题 →</a>　<a href="./">返回首页</a></p>

diff --git a/guide.html b/guide.html
@@ -47,7 +47,7 @@
     <div class="card"><h2>1. 作业地点和用车时间</h2><ul><li>提供武汉市内的具体作业地址、定位或附近路口。</li><li>说明计划进场日期、预计开始时间和作业时段；夜间需求请提前说明。</li><li>如果你人在外地，可留下现场负责人的联系方式，方便核对进场位置。</li></ul></div>
     <div class="card"><h2>2. 吊装物信息</h2><ul><li>说清吊装物名称、已知重量和长宽高尺寸。</li><li>如有吊点位置、包装方式或设备图纸，也请说明。</li><li>重量不确定时直接说明，先不要仅凭估计吨位定车。</li></ul></div>
     <div class="card"><h2>3. 现场条件与照片</h2><ul><li>提供进场道路、门口宽度、停车及支车位置的照片。</li><li>说明已知的作业高度、吊装距离，以及周围障碍物等情况。</li><li>由现场负责人员核对相关条件；车型和作业方案须结合实际工况确认。</li></ul></div>
-    <div class="card"><h2>4. 车型、范围与联系</h2><p>武汉嘉豪吊装起重有限公司（对外招牌：嘉豪吊装）可咨询 8、25、35、50、80、100、130、200、300、500、800 吨汽车吊。只安排汽车吊；具体车辆、档期和现场适用性，以逐单沟通确认为准。</p><p>主要服务汉阳区老关村、木棉路周边；武汉市内其他区域可咨询安排。具体作业地址请先电话沟通确认。</p></div>
+    <div class="card"><h2>4. 车型、范围与联系</h2><p>武汉嘉豪吊装起重有限公司（对外招牌：嘉豪吊装）可咨询 8、25、35、50、80、100、130、200、300、500、800 吨汽车吊。只安排汽车吊；具体车辆、档期和现场适用性，以逐单沟通确认为准。</p><p>以汉阳区为重点，服务武汉经开区（沌口）、蔡甸区、硚口区、东西湖区、江岸区、江汉区、武昌区、洪山区和江夏区。武汉市内跨区需求，以及向周边延伸约10—30公里的项目，均可联系确认车辆与档期。具体作业地址请先电话沟通确认。</p></div>
     <p class="note">外地客户可先打电话说明需求，再用同号微信发送现场照片。周经理：<a href="tel:15972016550">15972016550</a>。夜间可以联系沟通，能否派车以实际车辆和人员安排为准。</p>
     <p><a href="./">← 返回嘉豪吊装首页</a></p>
   </main>

diff --git a/README.md b/README.md
@@ -1,6 +1,6 @@
 # 武汉吊车出租｜武汉嘉豪吊装起重有限公司
 
-武汉嘉豪吊装起重有限公司（对外品牌：武汉吊车出租｜嘉豪吊装）提供武汉汽车吊出租咨询，主要服务武汉市汉阳区老关村、木棉路周边及汉阳区；武汉市内其他区域可联系确认。
+武汉嘉豪吊装起重有限公司（对外品牌：武汉吊车出租｜嘉豪吊装）提供武汉汽车吊出租咨询，以汉阳区为重点，服务武汉经开区（沌口）、蔡甸区、硚口区、东西湖区、江岸区、江汉区、武昌区、洪山区和江夏区。武汉市内跨区需求，以及向周边延伸约10—30公里的项目，均可联系确认车辆与档期。
 
 名称说明：部分旧地图商户资料仍显示“武汉嘉豪起重吊装有限公司”；本页面按当前营业执照名称“武汉嘉豪吊装起重有限公司”展示。
 
@@ -12,7 +12,7 @@
 
 [拨打周经理电话](tel:15972016550)｜[打开公司服务主页](https://a15972016550-ops.github.io/wuhan-jiahao-crane/)
 
-主要服务汉阳老关村、木棉路周边；请先电话沟通作业地点与安排。
+以汉阳区为重点，服务武汉经开区（沌口）、蔡甸区、硚口区、东西湖区、江岸区、江汉区、武昌区、洪山区和江夏区。武汉市内跨区需求，以及向周边延伸约10—30公里的项目，均可联系确认车辆与档期。
 
 ## 询价时建议提供
 
